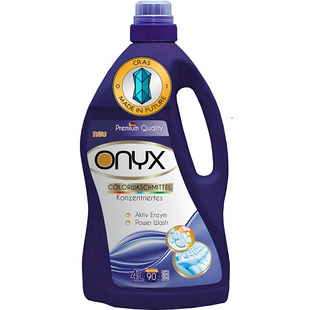
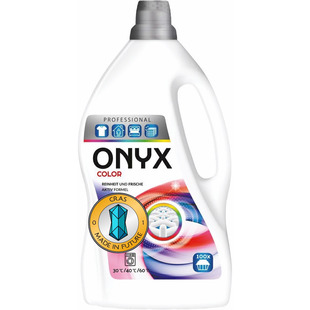
Added all WG

diff --git a/js/household_chemicals/array-washing-gels.js b/js/household_chemicals/array-washing-gels.js
@@ -59,7 +59,7 @@ export const shopLotsWashingGels = [
         alt2: "chanteclair_marsiglia_35-02",
         marker: "LDWG120",
         brand: "Chanteclair",
-        search: "шантеклер гели гелі для прання стирки марсельское мыло с марсельским мылом марсельске мило универсальний",
+        search: "шантеклер гели гелі для прання стирки марсельское мыло с марсельским мылом марсельське мило универсальний",
         nameUKR: "Гель універсальний з ароматом марсельського мила",
         nameEN: "Lavatrice Marsiglia",
         companyName: "Real Chimica Srl",
@@ -151,6 +151,31 @@ export const shopLotsWashingGels = [
     },
     {
         type: "wholesale",
+        url: "./images/shop/household_chemicals/laundry_detergents/washing_gels/formil_marsiglia_28.jpg",
+        alt: "formil_marsiglia_28",
+        url1: "./images/shop/household_chemicals/laundry_detergents/washing_gels/formil_marsiglia_28-01.jpg",
+        alt1: "formil_marsiglia_28-01",
+        url2: "./images/shop/household_chemicals/laundry_detergents/washing_gels/formil_marsiglia_28-02.jpg",
+        alt2: "formil_marsiglia_28-02",
+        marker: "LDWG230",
+        brand: "Formil",
+        search: "лидл лідл формил форміл гели гелі для прання стирки білі речі для белого белых вещей марсельске мило марсельское мыло с марсельским мылом",
+        nameUKR: "Гель для білих речей з марсельським милом, концентрат",
+        nameEN: "Marsiglia",
+        companyName: "Lidl",
+        countryName: "Греція",
+        volumeName: "Об'єм",
+        volume: "1 л.",
+        priceGRN: 104,
+        priceGRNOpt: 92,
+        description01: "Представляємо вам гель для білих речей з марсельським милом, концентрат &#171Formil - Marsiglia&#187, який забезпечить Вашому білому одягу бездоганну чистоту та свіжість.",
+        description02: "Завдяки марсельському милу в його складі, він ефективно видаляє бруд і плями, зберігаючи білизну бездоганною.",
+        description03: "Концентрована формула &#171Formil - Marsiglia&#187 забезпечить максимальну ефективність прання, роблячи Вашу білизну справжньою окрасою.",
+        description04: "<strong>Гель для білих речей. Марсельське мило. Конценртрат. Розрахований на 28 прань.</strong>",
+        description05: "Почніть дбати про бездоганність свого білого одягу вже зараз - замовте гель  &#171Formil - Marsiglia&#187 та насолоджуйтеся ідеально чистою білизною кожного дня!"
+    },
+    {
+        type: "wholesale",
         url: "./images/shop/household_chemicals/laundry_detergents/washing_gels/gallus_black_gel_2l.jpg",
         alt: "gallus_black_gel_2l",
         url1: "./images/shop/household_chemicals/laundry_detergents/washing_gels/gallus_black_gel_2l-01.jpg",
@@ -159,7 +184,7 @@ export const shopLotsWashingGels = [
         alt2: "gallus_black_gel_2l-02",
         marker: "LDWG250",
         brand: "Gallus",
-        search: "галлус галус хенкель гели гелі прання стирки чорний чорного для черного черных вещей",
+        search: "галлус галус хенкель гели гелі прання стирки для черного черный чорний чорні речі черные вещи",
         nameUKR: "Гель для чорних та темних речей",
         nameEN: "Feinwaschmittel Black Gel",
         companyName: "Henkel",
@@ -400,6 +425,56 @@ export const shopLotsWashingGels = [
         description05: "Зробіть перший крок до найкращої якості разом з &#171Gallus - Concentrated Colorwaschmittel 4 in 1&#187 та забудьте про компроміси у догляді за вашими улюбленими речами!"
     },
     {
+        type: "wholesale",
+        url: "./images/shop/household_chemicals/laundry_detergents/washing_gels/la_salud_marsella_40.jpg",
+        alt: "la_salud_marsella_40",
+        url1: "./images/shop/household_chemicals/laundry_detergents/washing_gels/la_salud_marsella_40-01.jpg",
+        alt1: "la_salud_marsella_40-01",
+        url2: "./images/shop/household_chemicals/laundry_detergents/washing_gels/la_salud_marsella_40-02.jpg",
+        alt2: "la_salud_marsella_40-02",
+        marker: "LDWG360",
+        brand: "La Salud",
+        search: "ла салуд салюд гели гелі для прання стирки білі речі для белого белых вещей кольорові речі цветных вещей цветные вещи марсельске мило марсельское мыло с марсельским мылом",
+        nameUKR: "Гель для білих та кольорових речей з марсельським милом",
+        nameEN: "Detergente Marsella",
+        companyName: "Inquivisa",
+        countryName: "Іспанія",
+        volumeName: "Об'єм",
+        volume: "2.650 мл.",
+        priceGRN: 339,
+        priceGRNOpt: 302,
+        description01: "Відкрийте для себе секрет чистоти та свіжості з гелем для прання &#171La Salud - Detergente Marsella&#187. Він надає Вашим речам неповторний аромат марсельського мила, що робить кожне прання справжнім естетичним задоволенням.",
+        description02: "Ефективно видаляє навіть найскладніші плями, залишаючи тканини м'якими і приємними на дотик. Це ідеальний вибір для тих, хто прагне піклуватися про свій одяг і зберігати його по-справжньому чистим.",
+        description03: "Завдяки формулі з марсельським милом, &#171La Salud - Detergente Marsella&#187 забезпечує не лише бездоганну чистоту, а й дбайливе ставлення до Ваших улюблених речей.",
+        description04: "<strong>Гель для білих та кольорових речей. Марсельське мило. Розрахований на 40 прань.</strong>",
+        description05: "Почніть свій шлях до бездоганної чистоти просто зараз - виберіть гель для прання &#171La Salud - Detergente Marsella&#187 і дозвольте Вашому одягу залишатися свіжим та чистим завжди!"
+    },
+    {
+        type: "wholesale",
+        url: "./images/shop/household_chemicals/laundry_detergents/washing_gels/la_salud_ropa_negra_40.jpg",
+        alt: "la_salud_ropa_negra_40",
+        url1: "./images/shop/household_chemicals/laundry_detergents/washing_gels/la_salud_ropa_negra_40-01.jpg",
+        alt1: "la_salud_ropa_negra_40-01",
+        url2: "./images/shop/household_chemicals/laundry_detergents/washing_gels/la_salud_ropa_negra_40-02.jpg",
+        alt2: "la_salud_ropa_negra_40-02",
+        marker: "LDWG365",
+        brand: "La Salud",
+        search: "ла салуд салюд гели гелі для прання стирки для черного черный чорний чорні речі черные вещи",
+        nameUKR: "Гель для чорних та темних речей",
+        nameEN: "Detergente Ropa Negra",
+        companyName: "Inquivisa",
+        countryName: "Іспанія",
+        volumeName: "Об'єм",
+        volume: "2.650 мл.",
+        priceGRN: 339,
+        priceGRNOpt: 302,
+        description01: "Зустрічайте гель для прання &#171La Salud - Detergente Ropa Negra&#187 - ваша відповідь на неперевершену чистоту і догляд за чорним та темним одягом.",
+        description02: "Він спеціально розроблений для чорних та темних тканин, забезпечуючи їм інтенсивне очищення та збереження колірної стійкості.",
+        description03: "Завдяки унікальній формулі &#171La Salud - Detergente Ropa Negra&#187 Ваші речі залишаться насиченими і яскравими, а кольори будуть зберігати свою глибину протягом тривалого часу.",
+        description04: "<strong>Гель для чорних та темних речей. Розрахований на 40 прань.</strong>",
+        description05: "Обирайте якість та надійність, які надає &#171La Salud - Detergente Ropa Negra&#187, і дозвольте Вашому гардеробу завжди виглядати бездоганно!"
+    },
+    {
         type: "retail",
         url: "./images/shop/household_chemicals/laundry_detergents/washing_gels/lenor_color_derergent_60.jpg",
         alt: "lenor_color_derergent_60",
@@ -526,12 +601,12 @@ export const shopLotsWashingGels = [
     },
     {
         type: "retail",
-        url: "./images/shop/household_chemicals/laundry_detergents/washing_gels/onyx_color_4l.jpg",
-        alt: "onyx_color_4l",
-        url1: "./images/shop/household_chemicals/laundry_detergents/washing_gels/onyx_color_4l-01.jpg",
-        alt1: "onyx_color_4l-01",
-        url2: "./images/shop/household_chemicals/laundry_detergents/washing_gels/onyx_color_4l-02.jpg",
-        alt2: "onyx_color_4l-02",
+        url: "./images/shop/household_chemicals/laundry_detergents/washing_gels/onyx_color_old_4l.jpg",
+        alt: "onyx_color_old_4l",
+        url1: "./images/shop/household_chemicals/laundry_detergents/washing_gels/onyx_color_old_4l-01.jpg",
+        alt1: "onyx_color_old_4l-01",
+        url2: "./images/shop/household_chemicals/laundry_detergents/washing_gels/onyx_color_old_4l-02.jpg",
+        alt2: "onyx_color_old_4l-02",
         marker: "LDWG600",
         brand: "Onyx",
         search: "онинс онікс хенкель гели гелі для прання стирки кольорові речі цветных вещей цветные вещи концентрований концентрованый",
@@ -572,6 +647,31 @@ export const shopLotsWashingGels = [
     // },
     {
         type: "wholesale",
+        url: "./images/shop/household_chemicals/laundry_detergents/washing_gels/onyx_color_4l.jpg",
+        alt: "onyx_color_4l",
+        url1: "./images/shop/household_chemicals/laundry_detergents/washing_gels/onyx_color_4l-01.jpg",
+        alt1: "onyx_color_4l-01",
+        url2: "./images/shop/household_chemicals/laundry_detergents/washing_gels/onyx_color_4l-02.jpg",
+        alt2: "onyx_color_4l-02",
+        marker: "LDWG605",
+        brand: "Onyx",
+        search: "онинс онікс хенкель гели гелі для прання стирки кольорові речі цветных вещей цветные вещи",
+        nameUKR: "Гель для кольорових речей",
+        nameEN: "Color",
+        companyName: "Henkel",
+        countryName: "Німеччина",
+        volumeName: "Об'єм",
+        volume: "4 л.",
+        priceGRN: 223,
+        priceGRNOpt: 198,
+        description01: "Представляємо гель для кольорових речей &#171Onyx - Color&#187, який збереже яскравість вашого одягу протягом тривалого часу. ",
+        description02: "Його унікальна формула створена спеціально для дбайливого прання кольорових тканин, забезпечуючи їм неперевершену чистоту та свіжість.",
+        description03: "За допомогою гелю &#171Onyx - Color&#187 ваші мрії здійсняться. Ви будете вражені результатом: кольори вашого одягу залишаться насиченими та яскравими, навіть при сильних забрудненнях.",
+        description04: "<strong>Гель для кольорових речей. Розрахований на 100 прань.</strong>",
+        description05: "Замовте прямо зараз гель для кольорових речей &#171Onyx - Color&#187 та насолоджуйтеся яскравістю та свіжістю вашого одягу ще довгий час!"
+    },
+    {
+        type: "wholesale",
         url: "./images/shop/household_chemicals/laundry_detergents/washing_gels/onyx_universal_4l.jpg",
         alt: "onyx_universal_4l",
         url1: "./images/shop/household_chemicals/laundry_detergents/washing_gels/onyx_universal_4l-01.jpg",
@@ -593,7 +693,7 @@ export const shopLotsWashingGels = [
         description02: "Завдяки комбінації активних ферментів та ензимів, гель глибоко проникає у тканини. Плями від жиру, кави, вина та інших складних речовин зникнуть безслідно.",
         description03: "&#171Onyx - Universal&#187 не тільки допомагає видаляти плями, але й дбає про структуру та кольори тканин. Він забезпечує оптимальний баланс між потужністю видалення забруднень та збереженням якості вашого одягу.",
         description04: "<strong>Гель універсальний. Розрахований на 100 прань.</strong>",
-        description05: "Не втрачайте можливість відчути на собі всі переваги &#171Onyx - Universal&#187 та насолоджуйтеся довготривалою свіжістю та чистотою вашого одягу."
+        description05: "Не втрачайте можливість відчути на собі всі переваги &#171Onyx - Universal&#187 та насолоджуйтеся довготривалою свіжістю та чистотою вашого одягу!"
     },
     {
         type: "wholesale",

diff --git a/js/array-brands.js b/js/array-brands.js
@@ -120,6 +120,10 @@ export const brands = [
     alt: "dermomed",
   },
   {
+    url: "./images/carusel/derr.jpg",
+    alt: "derr",
+  },
+  {
     url: "./images/carusel/dr.oetker.jpg",
     alt: "dr.oetker",
   },
@@ -140,6 +144,10 @@ export const brands = [
     alt: "fairy",
   },
   {
+    url: "./images/carusel/felce_azzurra.jpg",
+    alt: "felce_azzurra",
+  },
+  {
     url: "./images/carusel/fincarre.jpg",
     alt: "fincarre",
   },
@@ -150,6 +158,10 @@ export const brands = [
   {
     url: "./images/carusel/fit.jpg",
     alt: "fit",
+  },
+  {
+    url: "./images/carusel/formil.jpg",
+    alt: "formil",
   },
   {
     url: "./images/carusel/fresh.jpg",
@@ -242,6 +254,10 @@ export const brands = [
   {
     url: "./images/carusel/king_oscar.jpg",
     alt: "king_oscar",
+  },
+  {
+    url: "./images/carusel/la_salud.jpg",
+    alt: "la_salud",
   },
   {
     url: "./images/carusel/lavazza.jpg",
